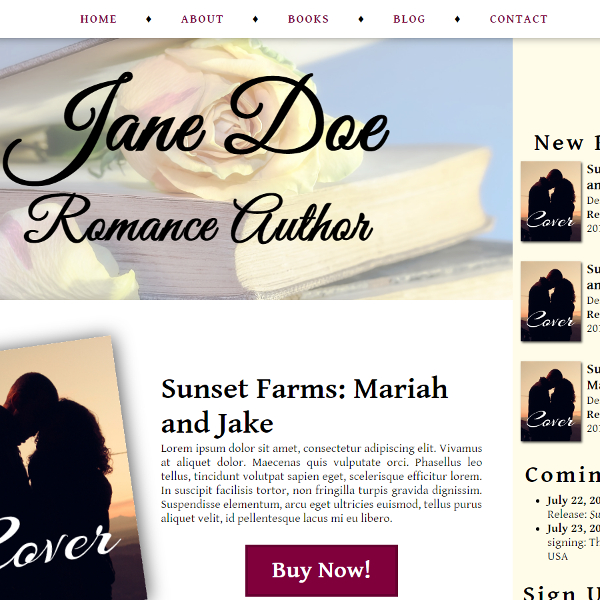
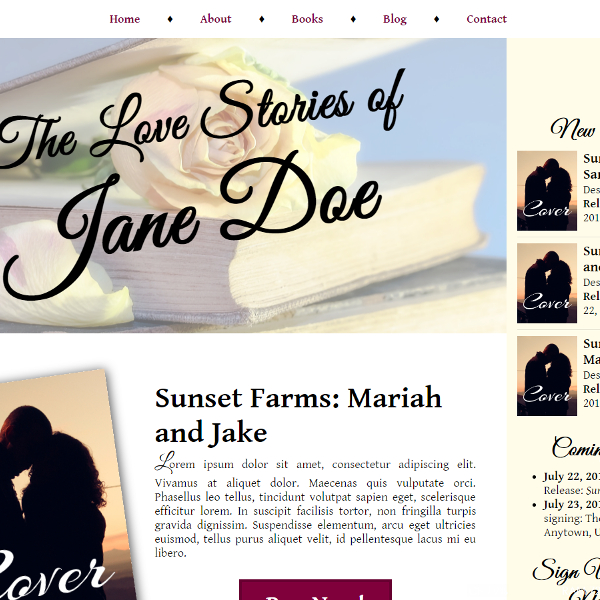
More 30 Days Day 6 changes

diff --git a/portfolio/30Days30Sites/day06.html b/portfolio/30Days30Sites/day06.html
@@ -2,7 +2,8 @@
 <html>
     <head>
         <title>Jane Doe, Romance Author</title>
-        <link rel="stylesheet" href="css/day06.css" type="text/css"><link href="https://fonts.googleapis.com/css?family=Great+Vibes|Gentium+Basic" rel="stylesheet">
+        <link rel="stylesheet" href="css/day06.css" type="text/css">
+        <link href="https://fonts.googleapis.com/css?family=Great+Vibes|Gentium+Basic" rel="stylesheet">
     </head>
     
     <body>
@@ -22,8 +23,8 @@
         </nav>
         <div class="head-wrap">
             <header>
+                <h2>The Love Stories of</h2>
                 <h1>Jane Doe</h1>
-                <h2>Romance Author</h2>
             </header>
         </div>
         <div class="contents col">
@@ -39,15 +40,23 @@
                     <h2>One Year Later</h2>
                     <h3>July 22, 2017</h3>
                     <p>In ut velit eu lorem placerat ullamcorper at sed est. Maecenas vel facilisis felis. Cras et urna lorem. Suspendisse felis orci, elementum a neque eget, dignissim posuere urna. Sed non semper eros. Proin ac lobortis nunc. Etiam vulputate, sapien non sagittis consequat, velit eros vehicula elit, ac maximus ex libero sed magna. Nulla tincidunt, nunc ac ullamcorper rutrum, ligula urna sollicitudin augue, sit amet euismod erat urna id tellus. Suspendisse varius et purus vel consequat.</p>
-                    <p class="more"><a href="#">Read More...</a></p>
+                    <div class="more"><a href="#">Read More...</a></div>
                 </div>
                 
                 <div class="entry">
                     <h2>Another Entry</h2>
                     <h3>July 20, 2017</h3>
                     <p>Interdum et malesuada fames ac ante ipsum primis in faucibus. Sed imperdiet augue est, ac fringilla risus vulputate vel. Nulla eget nunc diam. Duis posuere, arcu in malesuada fermentum, arcu mi volutpat purus, et interdum diam tortor eget metus. Quisque tincidunt consequat enim sit amet vulputate. Nam eget erat odio. Pellentesque habitant morbi tristique senectus et netus et malesuada fames ac turpis egestas. Donec fermentum accumsan ligula ultricies finibus. Morbi tincidunt molestie enim, sed fringilla sapien laoreet in. Aenean nisl elit, bibendum hendrerit nibh in, accumsan interdum urna.</p>
-                    <p class="more"><a href="#">Read More...</a></p>
+                    <div class="more"><a href="#">Read More...</a></div>
                 </div>
+                
+                <div class="entry">
+                    <h2>Another Entry</h2>
+                    <h3>July 10, 2017</h3>
+                    <p>Interdum et malesuada fames ac ante ipsum primis in faucibus. Sed imperdiet augue est, ac fringilla risus vulputate vel. Nulla eget nunc diam. Duis posuere, arcu in malesuada fermentum, arcu mi volutpat purus, et interdum diam tortor eget metus. Quisque tincidunt consequat enim sit amet vulputate. Nam eget erat odio. Pellentesque habitant morbi tristique senectus et netus et malesuada fames ac turpis egestas. Donec fermentum accumsan ligula ultricies finibus. Morbi tincidunt molestie enim, sed fringilla sapien laoreet in. Aenean nisl elit, bibendum hendrerit nibh in, accumsan interdum urna.</p>
+                    <div class="more"><a href="#">Read More...</a></div>
+                </div>
+                <a class="blog2" href="#"><h2>Go to Blog »</h2></a>
                 
             </div>
         

diff --git a/portfolio/30Days30Sites/css/day06.css b/portfolio/30Days30Sites/css/day06.css
@@ -31,7 +31,6 @@ a:hover, a:focus, a:active {
     width: 80%;
     margin: 0 auto;
     background: #fff;
-    box-shadow: 0 0 30px rgba(0, 0, 0, 0.7);
     }
     
 .col {
@@ -43,13 +42,10 @@ nav {
     width: 80%;
     padding: 1em 0;
     background: #fff;
-    text-transform: uppercase;
     font-family: "Gentium Basic", serif;
     font-weight: bold;
-    letter-spacing: 0.1em;
     text-align: center;
     z-index: 1000;
-    box-shadow: 0 0 20px rgba(0, 0, 0, 0.4);
     }
     
 nav li {
@@ -60,7 +56,7 @@ nav li {
     
 header {
     width: 100%;
-    height: 400px;
+    height: 450px;
     margin-top: 50px;
     background: linear-gradient(
     rgba(255, 255, 255, 0.4),
@@ -85,11 +81,15 @@ header h2 {
     font-size: 5em;
     text-align: center;
     }
+    
+header h1, header h2 {
+    transform: rotate(-8deg);
+    }
         
 .sidebar {
     width: 25%;
     font-family: "Gentium Basic", serif;
-    padding: 2em 0.7em;
+    padding: 2em 0.9em;
     background: rgba(254, 246, 184, 0.3);
     }
 
@@ -97,19 +97,24 @@ header h2 {
     height: 120px;
     float: left;
     margin: 0 0.5em 1em 0;
-    box-shadow: 2px 2px 4px rgba(0, 0, 0, 0.7);
     }
     
 .sidebar h2 {
     text-align: center;
     padding-bottom: 0.2em;
-    letter-spacing: 0.1em;
     font-size: 2em;
+    font-family: "Great Vibes", serif;
     }
         
 .release {
-    height: 150px;
-    padding-bottom: 2em;
+    height: 130px;
+    margin-bottom: 0.5em;
+    border-bottom: 1px solid rgba(0, 0, 0, 0.1);
+    }
+    
+.release:nth-of-type(3) {
+    border-bottom: 0;
+    margin-bottom: 1em;
     }
     
 .contents {
@@ -121,13 +126,12 @@ header h2 {
     }
     
 .buy {
-    border-bottom: 1px solid rgba(0, 0, 0, 0.5);
+    border-bottom: 1px solid rgba(0, 0, 0, 0.2);
     margin-top: 2em;
-    padding-bottom: 1em;
+    padding-bottom: 1.6em;
     }
     
 .buy h2 {
-    padding: 0.8em 0 0 0;
     font-size: 2.5em;
     }
     
@@ -140,7 +144,7 @@ header h2 {
     float: left;
     transform: rotate(-8deg);
     margin-right: 2.6em;
-    box-shadow: 2px 2px 44px rgba(0, 0, 0, 0.7);
+    box-shadow: 2px 2px 24px rgba(0, 0, 0, 0.7);
     }
     
 .button-holder {
@@ -193,13 +197,27 @@ header h2 {
     }
     
 .more {
-    margin-top: 0.5em;
+    margin-top: 1em;
     }
     
 .entry {
     border-bottom: 1px solid rgba(0, 0, 0, 0.2);
-    padding-bottom: 1em;
+    padding: 2em;
     margin-bottom: 1em;
+    }
+    
+.contents p:first-letter {
+    font-size: 1.7em;
+    font-family: "Great Vibes", serif;
+    }
+    
+.entry p {
+    text-align: justify;
+    text-justify: inter-word;
+    }
+    
+.blog2 h2 {
+    text-align: right;
     }
     
 footer {
